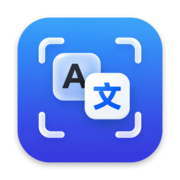
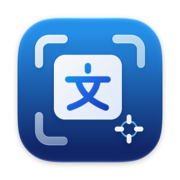
docs: 更换新版应用图标，同步菜单栏与更新入口说明
- 替换网站图标、favicon 与 Apple Touch Icon 为新版应用图标
- 使用手册与常见问题同步更新「扫描二维码」、延时截图选项及「设置 → 通用」手动检查更新说明

diff --git a/src/content/manual.ts b/src/content/manual.ts
@@ -34,7 +34,7 @@ export const manual: ManualSection[] = [
     title: '选区',
     rows: [
       ['开始截图', '[⌥A]（可在设置中修改），或点菜单栏图标'],
-      ['延时截图', '菜单栏 Shotlate → 延时截图 → 3 / 5 / 10 秒后。菜单栏图标旁显示倒计时，这段时间可以打开菜单、悬停出提示再截；可从菜单取消'],
+      ['延时截图', '菜单栏 Shotlate → 延时截图 → 3 / 5 / 10 秒。菜单栏图标旁显示倒计时，这段时间可以打开菜单、悬停出提示再截；倒计时中可在菜单里取消'],
       ['框选', '拖拽；按住 [⇧] 锁定 1:1'],
       ['选窗口 / 全屏', '单击光标下高亮的窗口；什么都没指到时单击选中整个屏幕'],
       ['放大镜', '选区时自动出现，显示坐标和像素颜色；[C] 复制颜色，[⇧] 在 HEX 和 RGB 之间切换'],
@@ -188,7 +188,7 @@ export const manual: ManualSection[] = [
     id: 'scan',
     title: '扫码',
     intro: [
-      '菜单栏 Shotlate → 扫描屏幕上的二维码 / 条形码（可以在设置里绑定快捷键）。直接识别所有屏幕上的码并复制内容，是网址时可以一键在浏览器打开。',
+      '菜单栏 Shotlate → 扫描二维码（可以在设置里绑定快捷键）。直接识别所有屏幕上的二维码和条形码并复制内容，是网址时可以一键在浏览器打开。',
     ],
   },
   {

diff --git a/src/content/faq.ts b/src/content/faq.ts
@@ -38,7 +38,7 @@ export const faqGroups: { title: string; items: Faq[] }[] = [
       {
         q: '怎么更新到新版本？',
         a: [
-          'Shotlate 每天自动检查一次更新。有新版本时不会弹窗打断你，菜单栏菜单顶部会出现「有新版本 …」，点开能看到更新说明，确认后自动下载、替换并重新打开。也可以随时点菜单里的「检查更新…」。不想自动检查，在「设置 → 通用」里关掉即可。',
+          'Shotlate 每天自动检查一次更新。有新版本时不会弹窗打断你，菜单栏菜单顶部会出现「更新到 …」，点开能看到更新说明，确认后自动下载、替换并重新打开。也可以随时在「设置 → 通用」里点「检查更新…」，或关掉自动检查。',
           '0.1.4 及更早的版本还没有自动更新，需要手动下载一次新版，之后就不用了。',
         ],
       },
